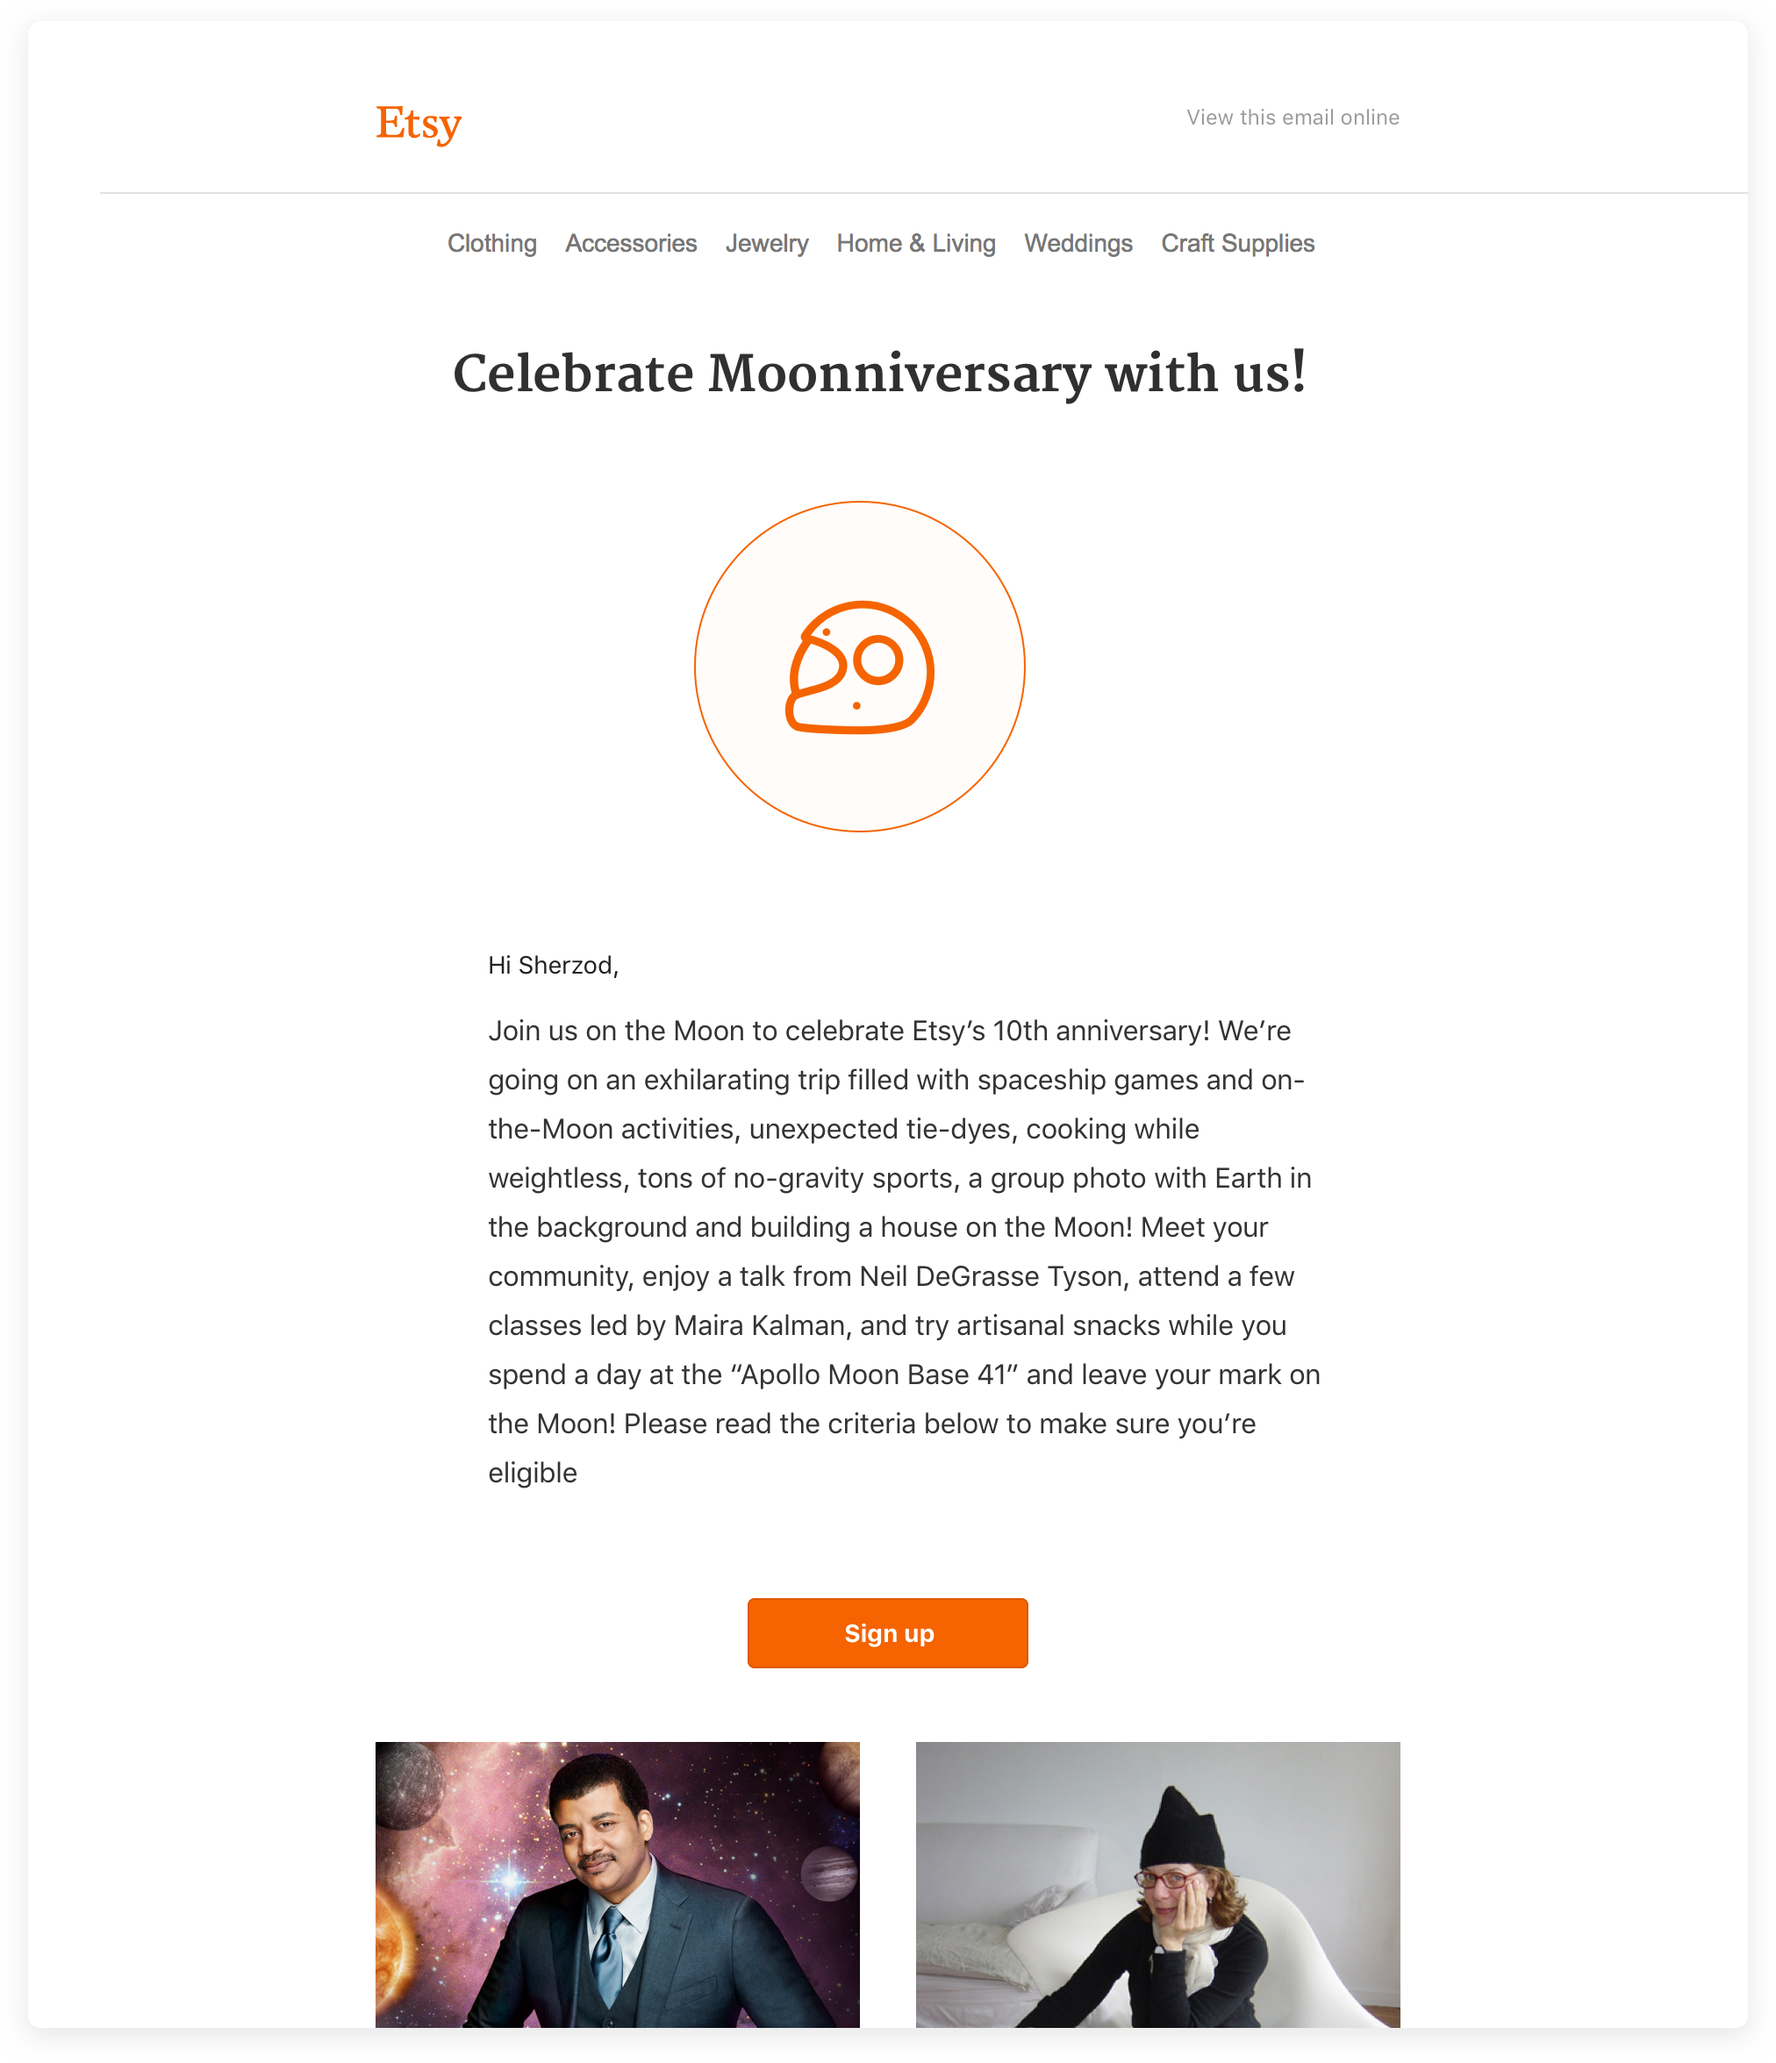
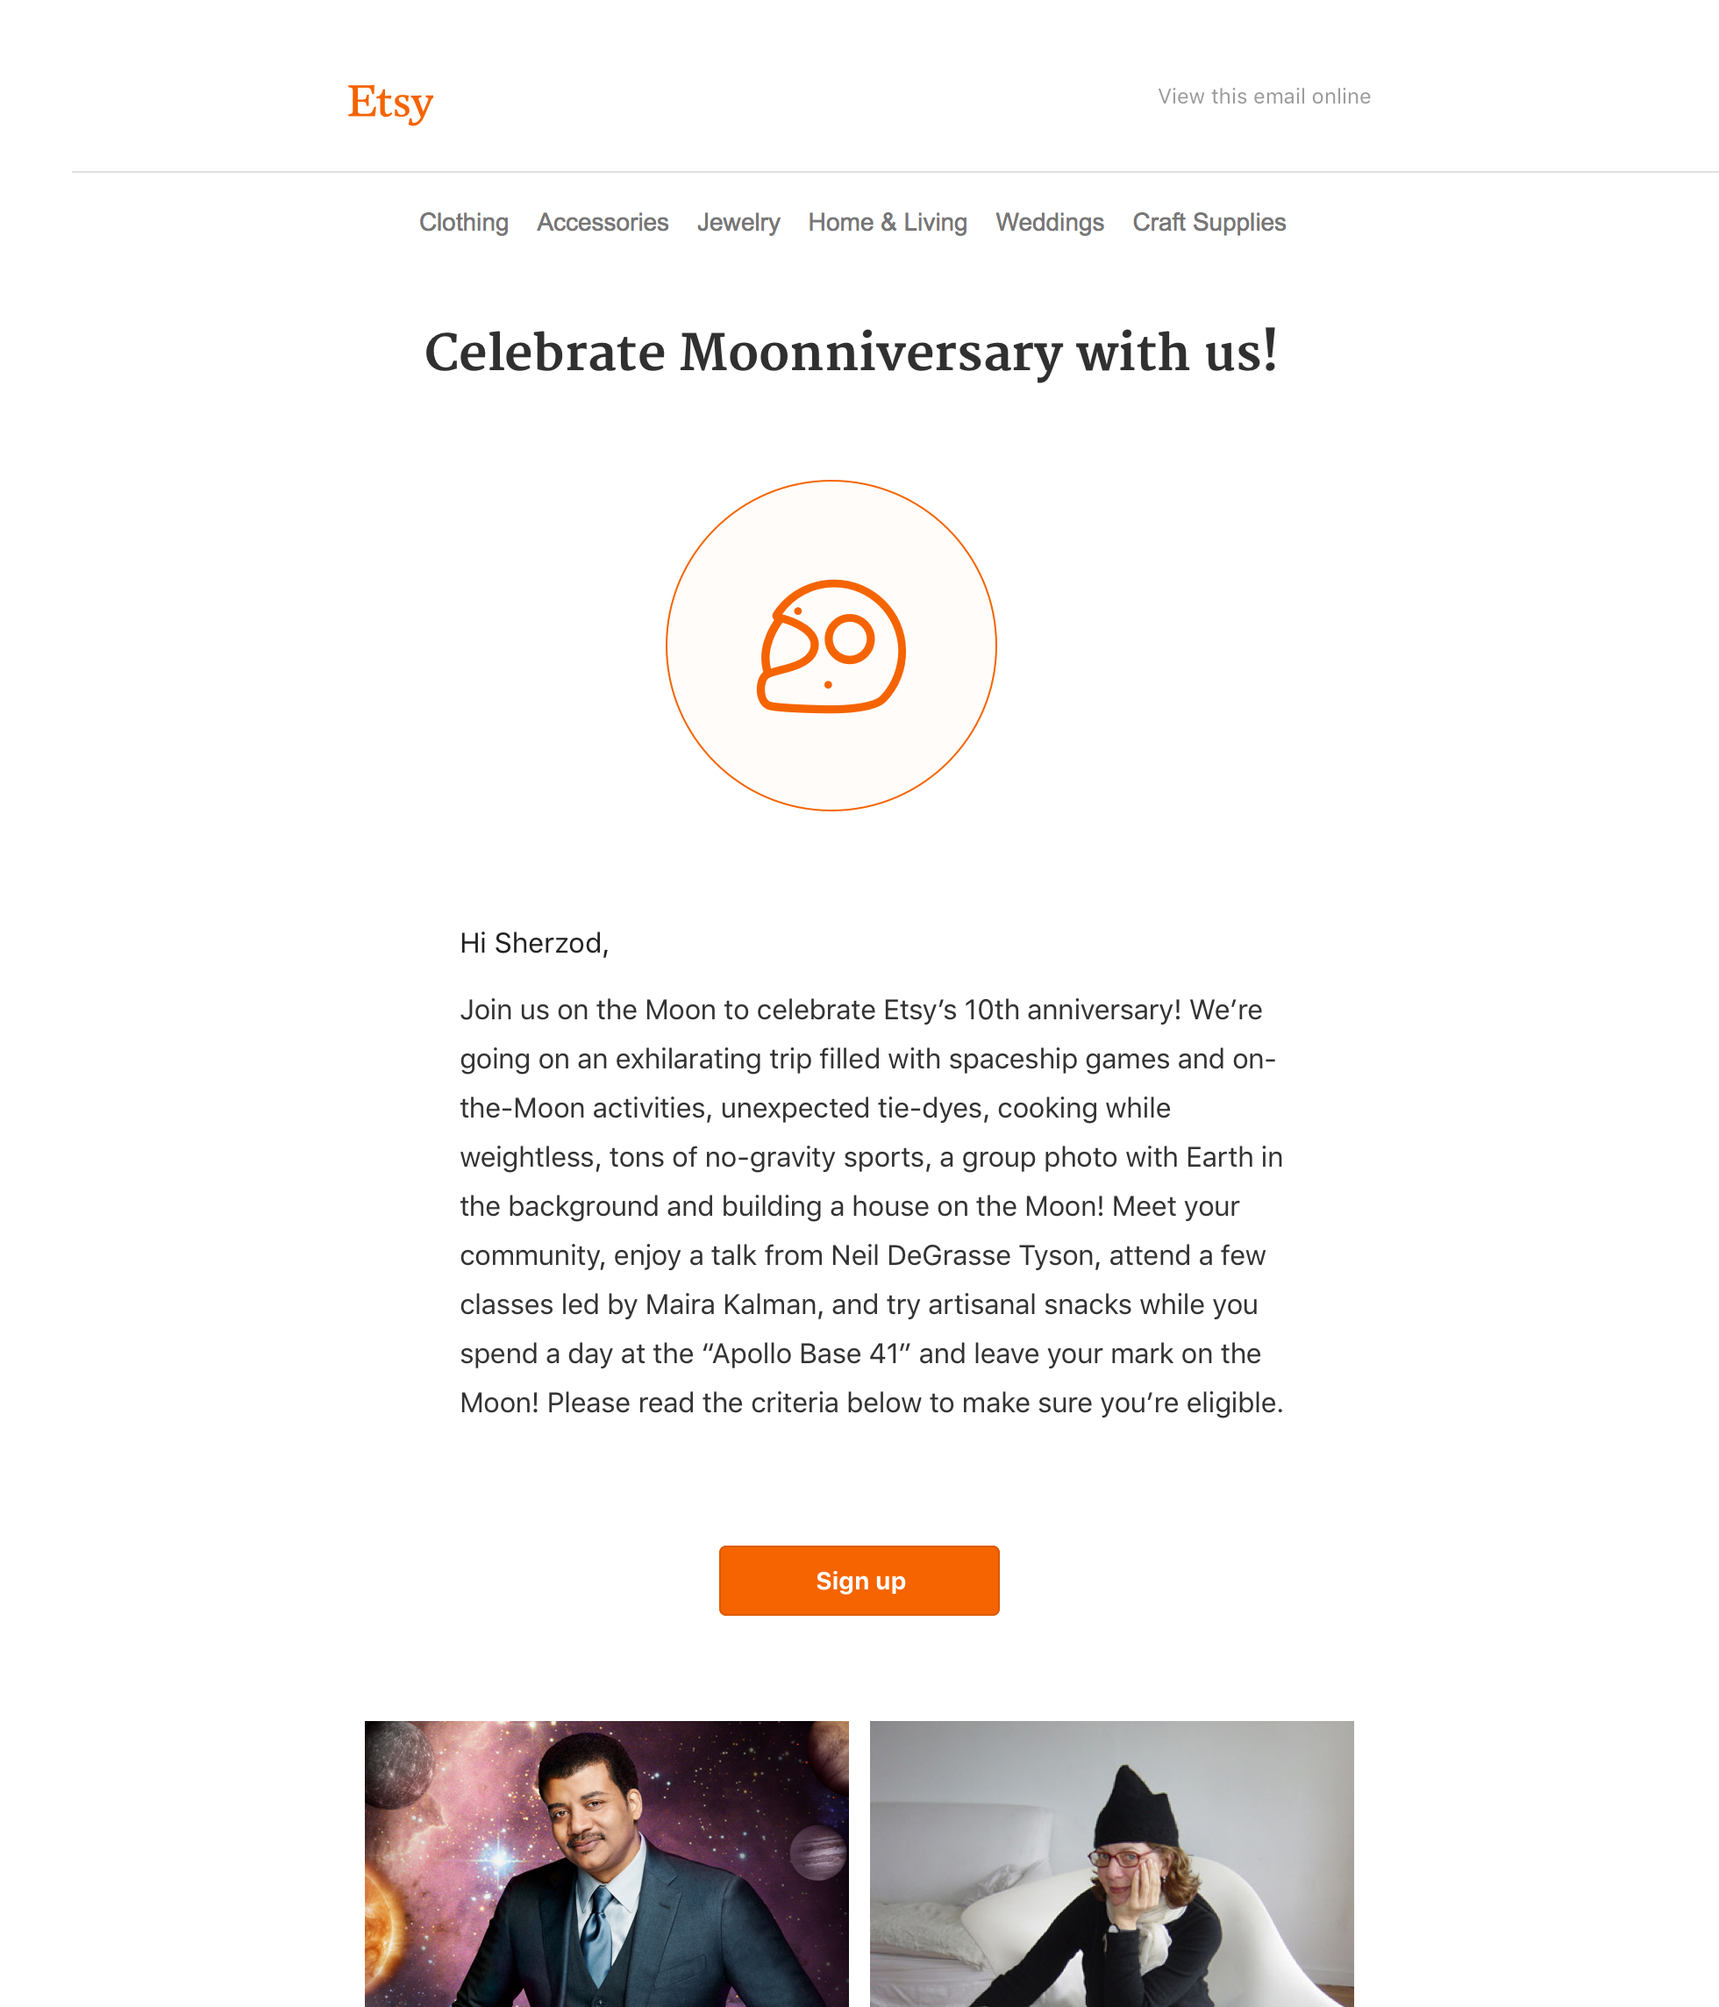
fixed moonniversary typo

diff --git a/etsy.html b/etsy.html
@@ -333,15 +333,16 @@ $(document).ready(function() {
         <span class="">
         </span>
       </p>
+    <br>
     <p>
-      <b>First email</b> user get's describes the value of the event and calls for action.
+      <b>First email</b> users get – describes the value of the event and calls for action.
     </p>
   </article>
   <div class="bg-near-white pv3 mt5 ph3 tc">
-    <img class="w-75 mv4-ns" id="picture" src="images/etsy-emails.png"></img>
+    <img class="w-80 mv4-ns" id="picture" src="images/etsy-emails.png"></img>
     <p style="margin: 0 auto !important;" class="f6 black-40 tc pb3">
       <span class="">
-        First email iteration
+        "Sign up" email followed by "You're invited" email
       </span>
     </p>
   </div>
